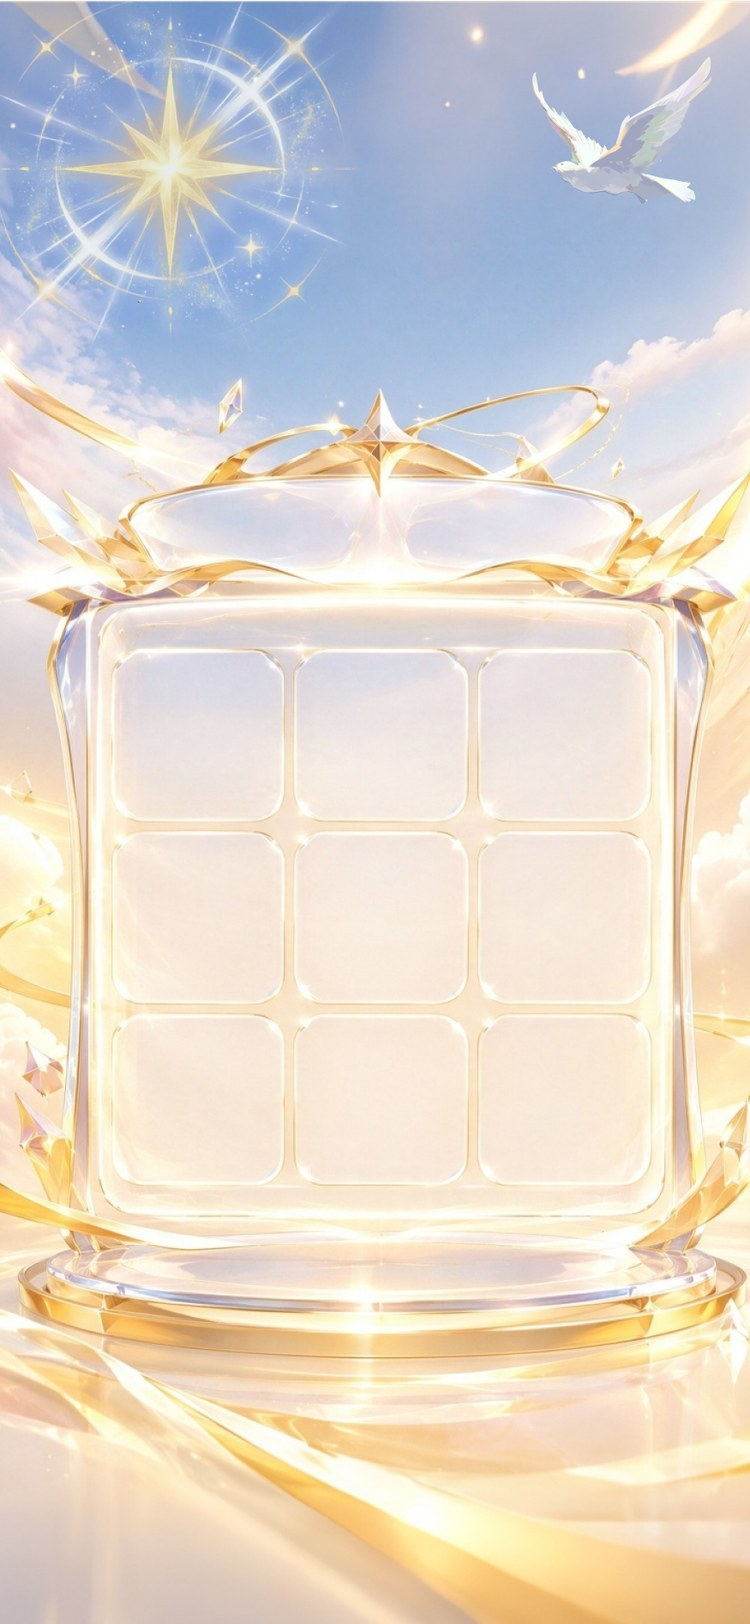
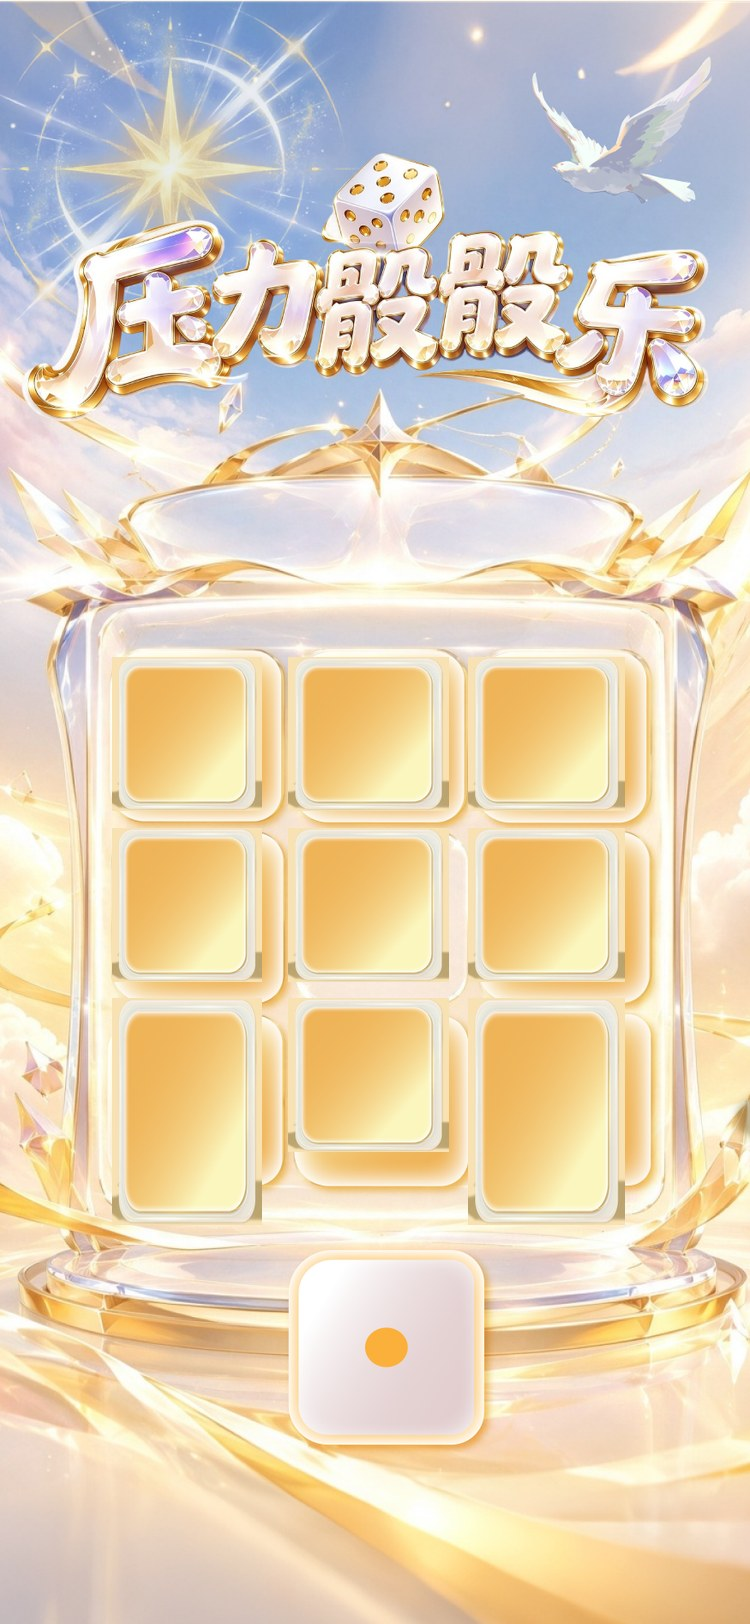
职场压力骰子局小程序：按第一张效果图重做背景和卡片位置（核对版）

Changed region(s): [[0.1227, 0.4002, 0.8893, 0.8929], [0.0307, 0.0924, 0.9507, 0.2771], [0.9813, 0.6773, 1.0, 0.7081]]

diff --git a/pages/zcyltzj/index.vue b/pages/zcyltzj/index.vue
@@ -2,7 +2,6 @@
 	<view class="page">
 		<image class="game-bg" src="/static/zcyltzj/game-bg.jpg" mode="scaleToFill" />
 		<zcyltzj-header theme="dark" @back="back" />
-		<image class="brand-logo" src="/static/zcyltzj/logo.png" mode="widthFix" />
 
 		<view class="grid" :class="{ spinning: rolling, settled: rolled }">
 			<view
@@ -72,15 +71,15 @@
 	const RING = [0, 1, 2, 5, 8, 7, 6, 3]
 	// 效果图 21 上 3x3 卡片在整页中的位置（百分比），用于透明点击/高亮热区。
 	const CELL_RECT = [
-		{ left: '15%', top: '40.5%', width: '19.5%', height: '9.5%' },
-		{ left: '38.5%', top: '40.5%', width: '22.5%', height: '9.5%' },
-		{ left: '64.5%', top: '40.5%', width: '24%', height: '9.5%' },
-		{ left: '15%', top: '51%', width: '19.5%', height: '9%' },
-		{ left: '38.5%', top: '51%', width: '22.5%', height: '9%' },
-		{ left: '64.5%', top: '51%', width: '24%', height: '9%' },
-		{ left: '15%', top: '62%', width: '19.5%', height: '14%' },
-		{ left: '38.5%', top: '62%', width: '22.5%', height: '9%' },
-		{ left: '64.5%', top: '62%', width: '24%', height: '14%' }
+		{ left: '15%', top: '40.5%', width: '20%', height: '9.5%' },
+		{ left: '38.5%', top: '40.5%', width: '21.5%', height: '9.5%' },
+		{ left: '62.5%', top: '40.5%', width: '21%', height: '9.5%' },
+		{ left: '15%', top: '51%', width: '20%', height: '9.5%' },
+		{ left: '38.5%', top: '51%', width: '21.5%', height: '9.5%' },
+		{ left: '62.5%', top: '51%', width: '21%', height: '9.5%' },
+		{ left: '15%', top: '61.5%', width: '20%', height: '14%' },
+		{ left: '38.5%', top: '61.5%', width: '21.5%', height: '9.5%' },
+		{ left: '62.5%', top: '61.5%', width: '21%', height: '14%' }
 	]
 
 	export default {
@@ -328,15 +327,6 @@
 		width: 100%;
 		height: 100%;
 		z-index: 0;
-	}
-
-	.brand-logo {
-		position: absolute;
-		z-index: 1;
-		top: 10%;
-		left: 50%;
-		width: 560rpx;
-		transform: translateX(-50%);
 	}
 
 	.top-bar {
